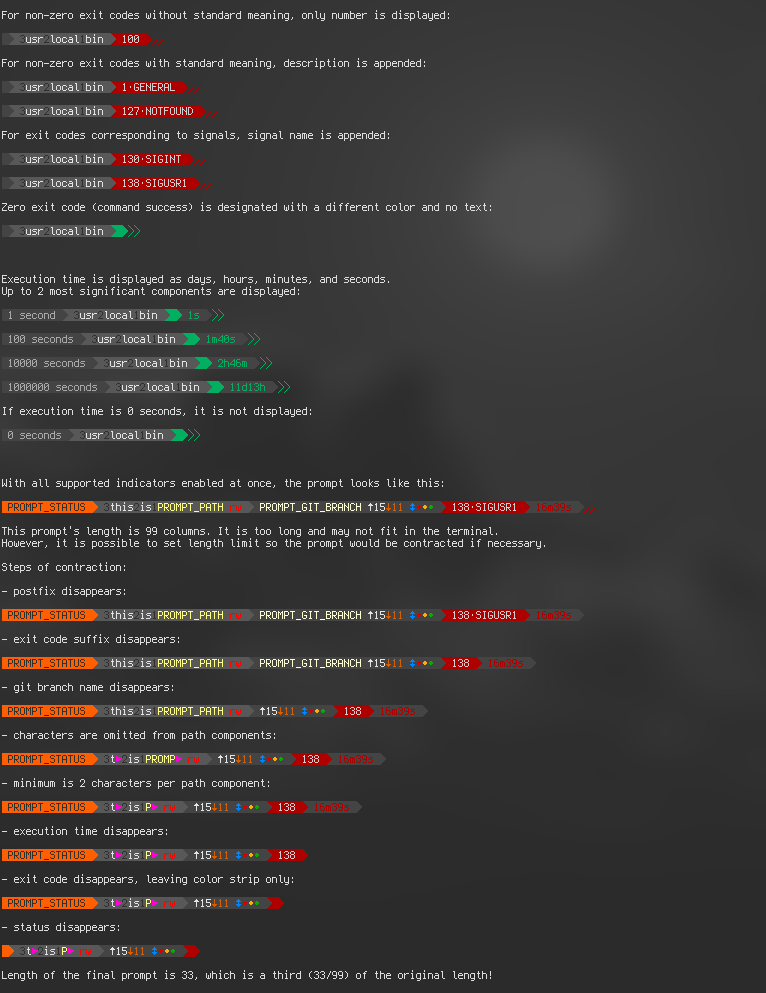
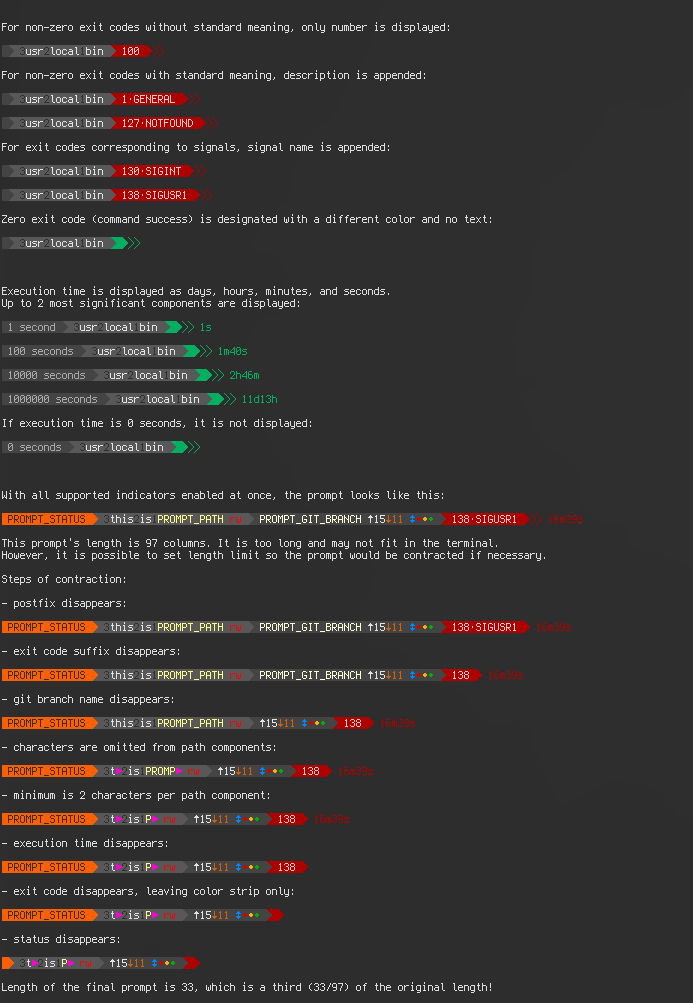
feat: move execution time right of postfix

diff --git a/prompt.py b/prompt.py
@@ -366,18 +366,18 @@ class Prompt:
             length_exit_code_block += length_exit_code + length_exit_code_suffix
             length += length_exit_code_block
 
+        length += 1 + len(POSTFIX) # triangle, postfix
+
         length_exec_time_block = 0
         length_exec_time = 0
         if self._exec_time is not None:
-            length_exec_time_block += 1 + 1 # triangle, space
+            length_exec_time_block += 1 # space
 
             if self._exec_time:
-                length_exec_time += len(self._exec_time) + 1 # execution time, space
+                length_exec_time += len(self._exec_time) # execution time
 
             length_exec_time_block += length_exec_time
             length += length_exec_time_block
-
-        length += 1 + len(POSTFIX) # triangle, postfix
 
         ##############################################
         # contract prompt to fit within length limit #
@@ -516,16 +516,12 @@ class Prompt:
             if exit_code:
                 self._str += color1(COLOR_EXIT_CODE_FG) + exit_code + exit_code_suffix + " "
 
-        if exec_time is not None:
-            self._str += color2(fg=prev_bg, bg=COLOR_EXEC_TIME_BG) + TRIANGLE + " "
-            prev_bg = COLOR_EXEC_TIME_BG
-
-            if exec_time:
-                self._str += color1(COLOR_EXEC_TIME_FG) + exec_time + " "
-
         self._str += color2(fg=prev_bg, transparent_bg=True) + TRIANGLE
         if POSTFIX:
             self._str += color1(POSTFIX_FG) + POSTFIX
+
+        if exec_time is not None:
+            self._str += " " + exec_time
 
         # reset all text decorations
         self._str += color1(None)
